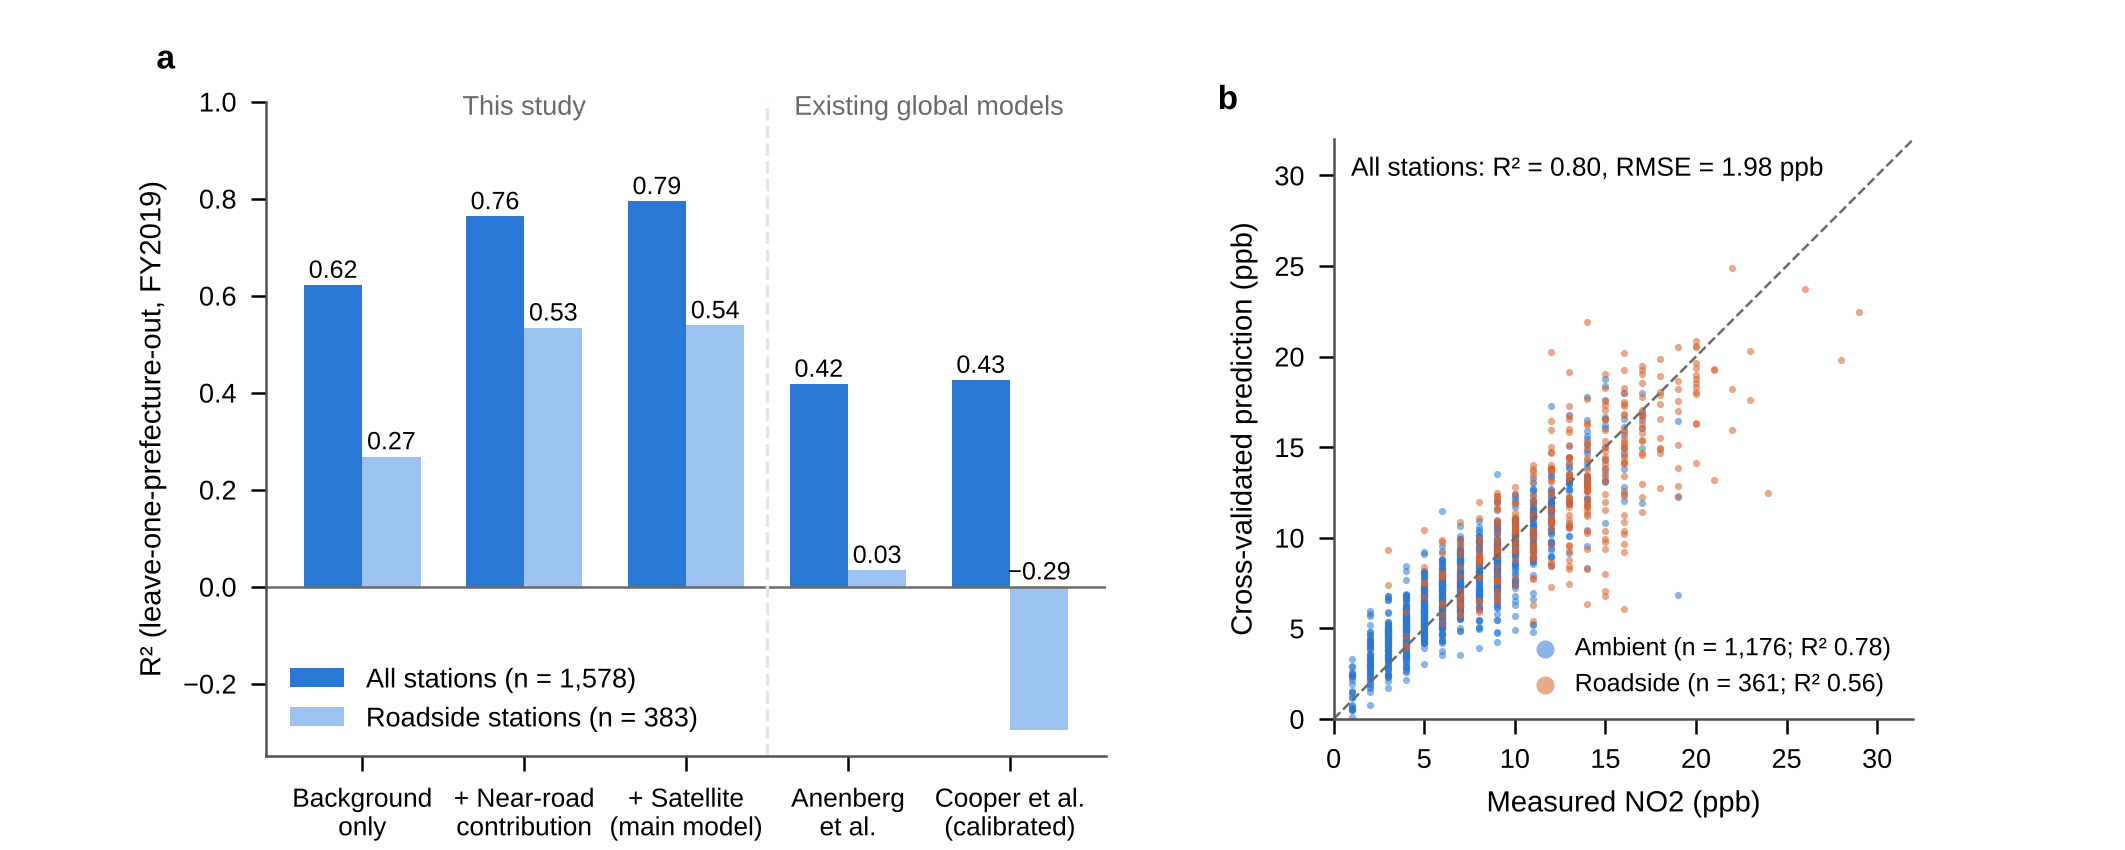
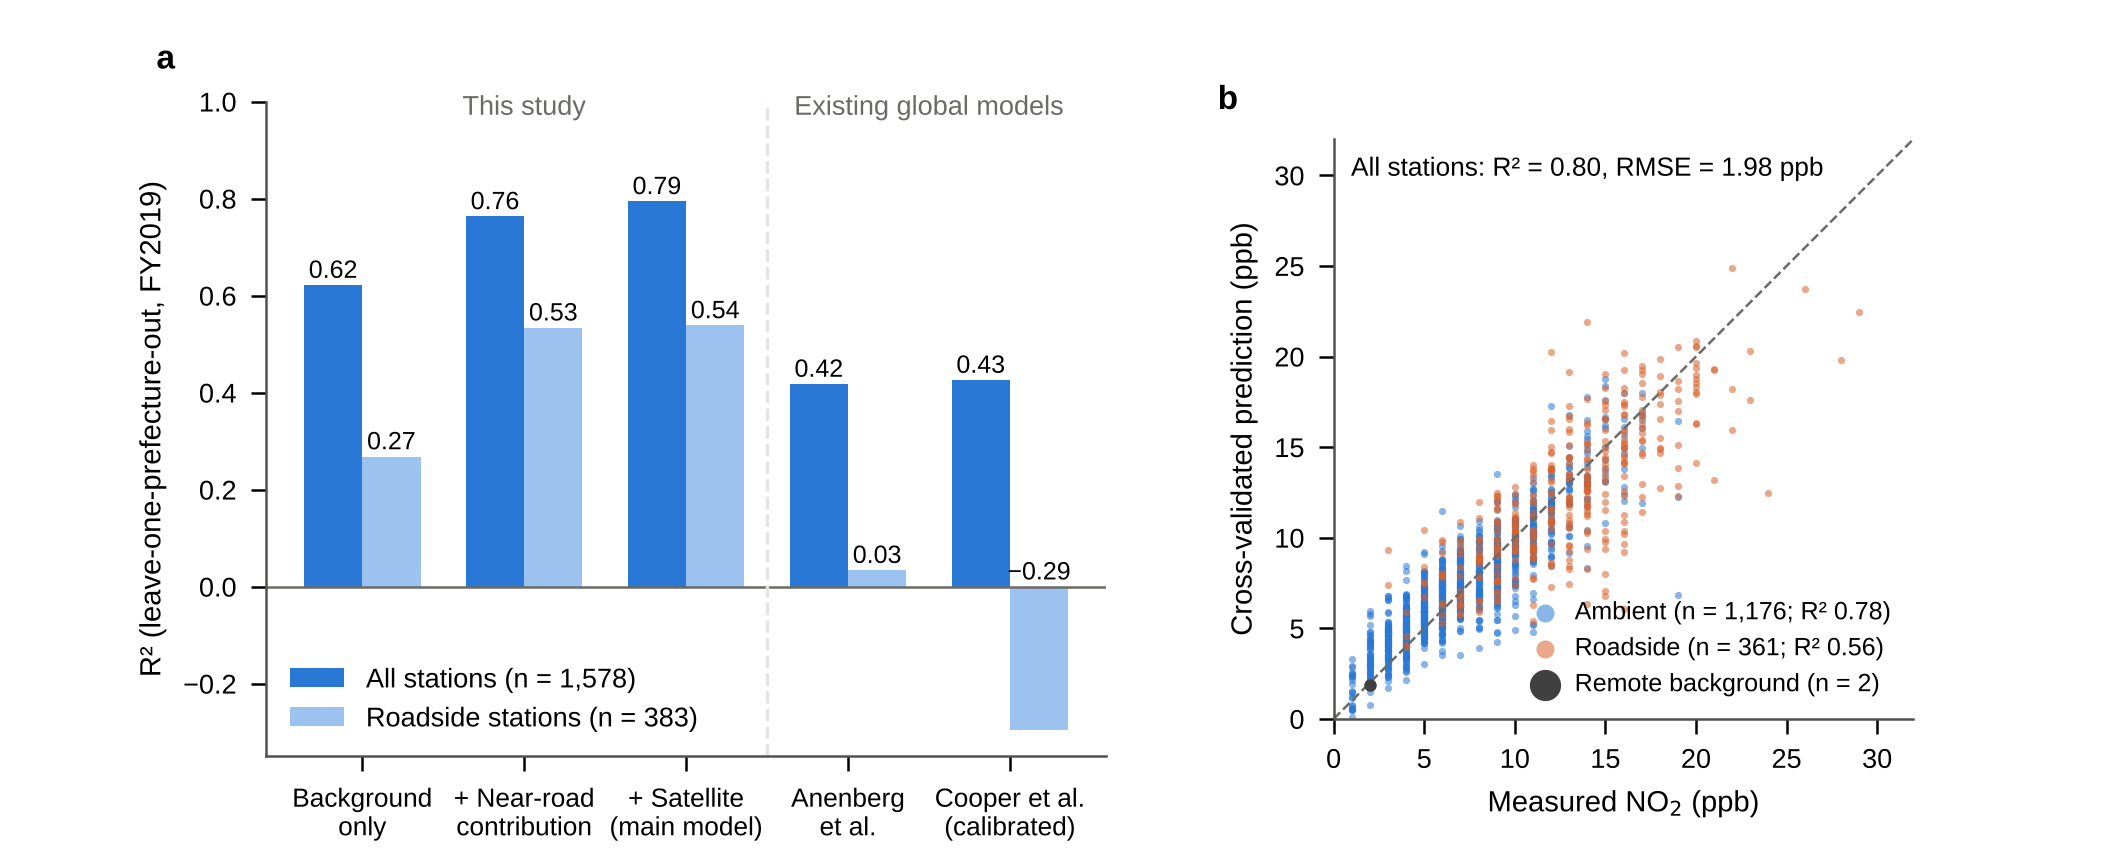
Add arithmetic-mean Lnight and summary tables; update figures (subscripts, remote background stations, panel order)

Changed region(s): [[0.7144, 0.7035, 0.9007, 0.8259], [0.6833, 0.9176, 0.8386, 0.9788]]

diff --git a/src/release_results.py b/src/release_results.py
@@ -1,0 +1,46 @@
+"""Adds the population-weighted arithmetic mean of Lnight to the small-area file and writes the English
+summary tables in data/results/ from the analysis outputs (unified_stats.py, measured_trends*.py,
+cutoff_sensitivity.py, popalloc_building.py, sens_kriging.py, sens_emission.py, compare_external.py).
+Usage: release_results.py ANALYSIS_DIR RELEASE_DATA_DIR
+  ANALYSIS_DIR holds results_unified/, rq34/, sensitivity/ and comparison_external/."""
+import pandas as pd, numpy as np, os, sys
+R, DATA = sys.argv[1].rstrip('/') + '/', sys.argv[2]
+os.chdir(DATA)
+d=pd.read_parquet('receptors_no2_noise_2015_2023.parquet',columns=['KEY_CODE','pop_w','Lnight_2021'])
+d['wL']=d.pop_w*d.Lnight_2021
+g=d.groupby('KEY_CODE')[['pop_w','wL']].sum(); am=(g.wL/g.pop_w).round(2)
+S=pd.read_csv('small_area_no2_noise_2015_2023.csv',dtype={'KEY_CODE':str})
+if 'Lnight_2021_mean' in S: S=S.drop(columns='Lnight_2021_mean')
+S.insert(S.columns.get_loc('Lnight_2021_energy_mean'),'Lnight_2021_mean',S.KEY_CODE.map(am))
+S.to_csv('small_area_no2_noise_2015_2023.csv',index=False)
+# results tables in English
+os.makedirs('results',exist_ok=True)
+t=pd.read_csv(R+'rq34/measured_trends_2015_2023.csv')
+t['series']=t.series.map({'夜間騒音（実測、dB差）':'nighttime_noise_dB','昼間騒音（実測、dB差）':'daytime_noise_dB','NO2 自排局（%変化）':'NO2_roadside_pct','NO2 一般局（%変化）':'NO2_ambient_pct'})
+t.rename(columns={'est':'change_from_2015','lo':'ci_low','hi':'ci_high'}).to_csv('results/measured_trends_2015_2023.csv',index=False)
+t=pd.read_csv(R+'rq34/robust/measured_trends_robustness.csv'); t.columns=['series','sample','change_2019','change_2023','ci_low_2023','ci_high_2023','sites','records']
+t['series']=t.series.map({'夜間騒音（dB差）':'nighttime_noise_dB','NO2 自排局（%）':'NO2_roadside_pct','NO2 一般局（%）':'NO2_ambient_pct'})
+t['sample']=t['sample'].map({'全地点（2回以上）':'measured in two or more years (main)','2015と2023の両年度に測定':'measured in 2015 and 2023','5年度以上測定':'measured in five or more years','全局（2回以上）':'measured in two or more years (main)','9年度すべて測定':'measured in all nine years'})
+t.to_csv('results/measured_trends_robustness.csv',index=False)
+t=pd.read_csv(R+'rq34/robust/sites_by_year.csv'); t.columns=['fiscal_year','noise_sites','noise_sites_also_previous_year','roadside_stations','ambient_stations']; t.to_csv('results/sites_by_year.csv',index=False)
+t=pd.read_csv(R+'sensitivity/noise_cutoff/cutoff_500m_comparison.csv'); t.columns=['indicator','cutoff_200m_main','cutoff_500m']
+t['indicator']=['Lnight>=55dB_pct','high_coexposure_pct','high_coexposure_10k_people','of_which_large_cities_pct','of_which_within_50m_pct','of_which_within_100m_pct','point_correlation','municipal_mean_correlation','within_municipality_correlation','noise_variance_between_municipalities_pct','NO2_variance_between_municipalities_pct','covariance_between_municipalities_pct','high_coexposure_by_small_area_means_pct','point_high_coexposure_missed_by_small_area_means_pct','small_area_means_only_pct_of_population']
+t.to_csv('results/sensitivity_cutoff_500m.csv',index=False)
+t=pd.read_csv(R+'sensitivity/noise_cutoff/monitoring_sites_200_vs_500.csv'); t.columns=['cutoff','records','bias_dB','sd_dB','r','rmse_dB','share_within_3dB']; t['cutoff']=['200 m','500 m']; t.to_csv('results/noise_validation_cutoffs.csv',index=False)
+t=pd.read_csv(R+'sensitivity/popalloc/popalloc_building_comparison_national.csv',dtype={'都府県':str})
+t.columns=['pref','placement','pop_10k','within50m_pct','within100m_pct','Lnight_mean','Lnight55_pct','NO2_mean_ppb','NO2_20ug_pct','high_coexposure_pct','of_which_within50m_pct','of_which_within100m_pct','of_which_large_city_wards_pct','r_noise_NO2']
+t['placement']=t.placement.map({'元の配置（小地域内に一様）':'uniform (main)','建物用地に配分':'building land'}); t['pref']=t.pref.replace({'全国計':'Japan'})
+t.to_csv('results/sensitivity_building_land_placement.csv',index=False)
+k=pd.read_csv(R+'sensitivity/sens_kriging.csv'); k['spec']=k.spec.str.split(' ').str[0]; k.to_csv('results/sensitivity_kriging.csv',index=False)
+e=pd.read_csv(R+'sensitivity/sens_emission_cv.csv'); e['case']=e.case.str.split(' ').str[0]; tot=pd.read_csv(R+'sensitivity/sens_emission_totals.csv'); tot['case']=tot.case.str.split(' ').str[0]
+e.merge(tot,on='case').to_csv('results/sensitivity_emissions.csv',index=False)
+c=pd.read_csv(R+'comparison_external/compare_external_stations.csv'); c['method']=c.method.str.replace('（年ずれ）','_yearlag'); c.to_csv('results/comparison_external_models.csv',index=False)
+
+U=R+'results_unified/'
+c=pd.read_csv(U+'correlation_by_level.csv'); c['単位']=['residential points','small areas','municipalities','secondary medical care areas','prefectures','residential points (deviations within municipalities)']; c.columns=['level','n','r']; c.to_csv('results/correlation_by_level.csv',index=False)
+t=pd.read_csv(U+'table1_by_municipality_type.csv'); t.columns=['municipality_type','pop_million','NO2_2022_ppb','NO2_change_2015_2023_pct','Lnight55_pct','NO2_20ug_pct','high_coexposure_pct','share_of_all_high_coexposure_pct','r_noise_NO2']
+t['municipality_type']=["Tokyo's 23 wards",'designated cities','cities >=300,000','cities 100,000-300,000','cities 50,000-100,000','cities <50,000','towns and villages','Japan']; t.to_csv('results/table1_by_municipality_type.csv',index=False)
+k=pd.read_csv(U+'key_numbers.csv'); k.columns=['indicator','value']
+en=['high_coexposure_pct','high_coexposure_10k_people','Lnight55_pct','NO2_20ug_pct','NO2_20ug_among_Lnight55_pct','NO2_2022_ppb','above_WHO10ug_2022_pct','above_WHO10ug_2015_pct','above_WHO10ug_2023_pct','NO2_2015_ppb','NO2_2023_ppb','near_road_change_2015_2023_pct','of_high_coexposure_Tokyo23_pct','of_high_coexposure_designated_cities_pct','of_high_coexposure_within50m_pct','of_high_coexposure_within100m_pct','nearest_road_prefectural_pct','nearest_road_national_highway_pct','nearest_road_motorway_pct','nearest_road_municipal_other_pct','high_coexposure_dist_lt20m_pct','high_coexposure_dist_20_50m_pct','high_coexposure_dist_50_100m_pct','high_coexposure_dist_100_200m_pct','high_coexposure_dist_ge200m_pct','high_coexposure_by_small_area_means_pct','noise_variance_between_municipalities_pct','NO2_variance_between_municipalities_pct','covariance_between_municipalities_pct','within_municipality_r','between_municipality_r','r_noise_near_road_NO2','r_noise_background_NO2']
+assert len(en)==len(k); k['indicator']=en; k.to_csv('results/key_numbers.csv',index=False)
+print(sorted(os.listdir('results')))

diff --git a/src/make_figures.py b/src/make_figures.py
@@ -75,9 +75,11 @@ s = b[b.fy == 2022]
 for k, col, lab in [('gen', BLUE, 'Ambient'), ('road', ORANGE, 'Roadside')]:
     t = s[s.kind == k]
     ax.scatter(t.NO2_obs, t.NO2_lopo, s=3, color=col, alpha=.55, lw=0, label=f'{lab} (n = {len(t):,}; R² {r2(t.NO2_obs, t.NO2_lopo):.2f})')
+t = s[~s.kind.isin(['gen', 'road'])]
+ax.scatter(t.NO2_obs, t.NO2_lopo, s=9, color='0.25', lw=0, zorder=5, label=f'Remote background (n = {len(t)})')
 lim = (0, 32)
 ax.plot(lim, lim, color=INK2, lw=.6, ls='--'); ax.set_xlim(lim); ax.set_ylim(lim); ax.set_aspect('equal')
-ax.set_xlabel('Measured NO2 (ppb)'); ax.set_ylabel('Cross-validated prediction (ppb)')
+ax.set_xlabel('Measured NO$_2$ (ppb)'); ax.set_ylabel('Cross-validated prediction (ppb)')
 ax.text(.03, .97, f'All stations: R² = {r2(s.NO2_obs, s.NO2_lopo):.2f}, RMSE = {np.sqrt(((s.NO2_obs - s.NO2_lopo) ** 2).mean()):.2f} ppb',
         transform=ax.transAxes, va='top', fontsize=6.3)
 ax.legend(loc='lower right', frameon=False, markerscale=2.5, handletextpad=.2, fontsize=6)
@@ -97,12 +99,12 @@ for ser, col, lab in [('NO2 自排局（%変化）', ORANGE, 'Roadside stations 
     d = t[t.series == ser]
     axs[0].fill_between(d.fy, d.lo, d.hi, color=col, alpha=.25, lw=0)
     axs[0].plot(d.fy, d.est, color=col, marker='o', ms=2.5, lw=1.2, label=lab)
-axs[0].set_ylabel('Change in NO2 from FY2015 (%)'); axs[0].set_ylim(-42, 4)
+axs[0].set_ylabel('Change in NO$_2$ from FY2015 (%)'); axs[0].set_ylim(-42, 4)
 axs[0].legend(loc='lower left', frameon=False)
 d = t[t.series == '夜間騒音（実測、dB差）']
 axs[1].fill_between(d.fy, d.lo, d.hi, color='#5b4bb7', alpha=.22, lw=0)
 axs[1].plot(d.fy, d.est, color='#5b4bb7', marker='o', ms=2.5, lw=1.2, label='Nighttime noise (n = 7,302 sites)')
-axs[1].set_ylabel('Change in Lnight from FY2015 (dB)'); axs[1].set_ylim(-1.6, 0.5)
+axs[1].set_ylabel('Change in $L_\\mathrm{night}$ from FY2015 (dB)'); axs[1].set_ylim(-1.6, 0.5)
 axs[1].legend(loc='lower left', frameon=False)
 for ax in axs:
     ax.text(2020.5, .97, 'COVID-19', ha='center', va='top', fontsize=6.3, color=INK2, transform=ax.get_xaxis_transform())
@@ -197,10 +199,10 @@ for i, v in enumerate(lv.r):
 wi = CL.iloc[5].r
 ax.axhline(wi, color=INK2, lw=.7, ls='--'); ax.text(4.35, wi + .015, f'Within\nmunicipalities ({wi:.2f})', ha='right', va='bottom', fontsize=5.5, color=INK2)
 ax.set_xticks(range(5)); ax.set_xticklabels(labs, fontsize=6); ax.set_ylim(0, 1); ax.set_xlim(-.4, 4.4)
-ax.set_ylabel('Correlation of nighttime noise and NO2')
+ax.set_ylabel('Correlation of nighttime noise and NO$_2$')
 panel(ax, 'a', -0.35, 1.06)
 ax = fig.add_subplot(gs[0, 1:])
-rows = [('NO2', 91.93), ('Nighttime noise,\ncutoff 200 m (main)', float(CO.loc['騒音分散の市区町村間 %', '200 m（主解析）'])),
+rows = [('NO$_2$', 91.93), ('Nighttime noise,\ncutoff 200 m (main)', float(CO.loc['騒音分散の市区町村間 %', '200 m（主解析）'])),
         ('Nighttime noise,\ncutoff 500 m', float(CO.loc['騒音分散の市区町村間 %', '500 m']))]
 y = np.arange(len(rows))[::-1]
 for yy, (lab, bt) in zip(y, rows):
@@ -211,11 +213,11 @@ ax.set_yticks(y); ax.set_yticklabels([l for l, _ in rows]); ax.set_xlim(0, 100)
 ax.set_xlabel('Share of population-weighted variance (%)')
 h = [plt.Rectangle((0, 0), 1, 1, color=BLUE), plt.Rectangle((0, 0), 1, 1, color=LBLUE)]
 ax.legend(h, ['Between municipalities', 'Within municipalities'], loc='upper center', bbox_to_anchor=(.5, 1.25), ncol=2, frameon=False)
-panel(ax, 'c', -0.26, 1.06)
+panel(ax, 'b', -0.26, 1.06)
 box = (139.68, 35.64, 139.80, 35.72)
 Z = R[(R.lon > box[0]) & (R.lon < box[2]) & (R.lat > box[1]) & (R.lat < box[3])]
-for j, (col, lab, cm, vmin, vmax) in enumerate([('Lnight_2021', 'Nighttime noise, Lnight (dB)', 'magma_r', 40, 70),
-                                                 ('ug', 'NO2 (µg m$^{-3}$)', 'viridis_r', 15, 35)]):
+for j, (col, lab, cm, vmin, vmax) in enumerate([('Lnight_2021', 'Nighttime noise, $L_\\mathrm{night}$ (dB)', 'magma_r', 40, 70),
+                                                 ('ug', 'NO$_2$ (µg m$^{-3}$)', 'viridis_r', 15, 35)]):
     ax = fig.add_subplot(gs[1, j])
     sc = ax.scatter(Z.lon, Z.lat, c=Z[col], s=.4, lw=0, cmap=cm, vmin=vmin, vmax=vmax, rasterized=True)
     ax.set_xlim(box[0], box[2]); ax.set_ylim(box[1], box[3]); ax.set_aspect(1 / np.cos(np.radians(35.68)))
@@ -224,14 +226,14 @@ for j, (col, lab, cm, vmin, vmax) in enumerate([('Lnight_2021', 'Nighttime noise
         s.set_visible(True); s.set_color(INK2); s.set_linewidth(.5)
     cb = fig.colorbar(sc, ax=ax, orientation='horizontal', fraction=.06, pad=.04); cb.set_label(lab, fontsize=6.3); cb.ax.tick_params(labelsize=6)
     if j == 0:
-        panel(ax, 'b', -0.05, 1.03)
+        panel(ax, 'c', -0.05, 1.03)
         km = 1 / (111.32 * np.cos(np.radians(35.68)))
         ax.plot([box[0] + .005, box[0] + .005 + 2 * km], [box[1] + .004] * 2, color=INK, lw=1.2)
         ax.text(box[0] + .005 + km, box[1] + .007, '2 km', ha='center', fontsize=6, bbox=dict(fc='white', ec='none', pad=.5))
 ax = fig.add_subplot(gs[1, 2])
 zz = Z.sample(min(len(Z), 20000), random_state=1)
 ax.scatter(zz.ug, zz.Lnight_2021, s=.6, lw=0, alpha=.35, color=INK2, rasterized=True)
-ax.set_xlabel('NO2 (µg m$^{-3}$)'); ax.set_ylabel('Lnight (dB)'); ax.set_xlim(15, 35); ax.set_ylim(38, 72)
+ax.set_xlabel('NO$_2$ (µg m$^{-3}$)'); ax.set_ylabel('$L_\\mathrm{night}$ (dB)'); ax.set_xlim(15, 35); ax.set_ylim(38, 72)
 rr = np.corrcoef(Z.ug, Z.Lnight_2021)[0, 1]
 ax.text(.03, .97, f'Points in the map area\n(n = {len(Z):,}; r = {rr:.2f})', transform=ax.transAxes, va='top', fontsize=6)
 save(fig, 'fig4')

diff --git a/data_dictionary/README.md b/data_dictionary/README.md
@@ -1,3 +1,11 @@
+# NO2 and nighttime road traffic noise at residential locations in Japan, FY2015–2023
+
+Estimates for the paper "Diverging trends in nitrogen dioxide and nighttime road traffic noise in Japanese cities" (Daisuke Matsushita, Osaka Metropolitan University, ORCID 0000-0002-6765-9366). Code: https://github.com/m138/japan-traffic-no2 ([code DOI]).
+
+Annual mean NO2 (ppb) at 12,298,351 residential locations covering the 2020 population of Japan, for fiscal years 2015–2023, with the part explained by nearby census roads and the nighttime road traffic noise (Lnight, 2021 traffic) of the companion model japan-night-road-noise. Leave-one-prefecture-out R² against monitoring stations: 0.78–0.81 (all), 0.46–0.60 (roadside).
+
+Files: see the data dictionary below. License: CC BY 4.0. Please cite the paper and this dataset, and credit the data sources (MLIT Road Traffic Census; e-Stat 2020 census boundaries; NIES air quality and noise monitoring data of the Ministry of the Environment; Cooper et al. 2022 TROPOMI surface NO2).
+
 # Data dictionary
 
 Units: NO2 in ppb (multiply by 1.88 for µg/m³); noise in dB (A-weighted). Fiscal year (FY) YYYY runs from April YYYY to March YYYY+1. All means are population-weighted with the 2020 census population.
@@ -9,7 +17,8 @@ Units: NO2 in ppb (multiply by 1.88 for µg/m³); noise in dB (A-weighted). Fisc
 | pop2020 | 2020 census population of the small area |
 | NO2_YYYY | Mean annual NO2 at the residential locations of the area, FY YYYY (2015–2023) |
 | road_YYYY | Part of NO2_YYYY explained by Road Traffic Census roads within 1 km |
-| Lnight_2021_energy_mean | Energy mean of nighttime (22:00–06:00) road traffic noise Lnight, 2021 traffic (japan-night-road-noise v4; 40 dB floor) |
+| Lnight_2021_mean | Population-weighted arithmetic mean (dB) of nighttime (22:00–06:00) road traffic noise Lnight, 2021 traffic (japan-night-road-noise v4; 40 dB floor). Used for all area-level analyses in the paper |
+| Lnight_2021_energy_mean | Population-weighted energy mean of the same Lnight (for reference) |
 | share_Lnight55 | Share of residents with Lnight ≥ 55 dB |
 | share_double_2022 | Share of residents with Lnight ≥ 55 dB and NO2 (FY2022) ≥ 20 µg/m³ |
 
@@ -49,6 +58,9 @@ Units: NO2 in ppb (multiply by 1.88 for µg/m³); noise in dB (A-weighted). Fisc
 | speed_small, speed_large, speed_source | Travel speed (km/h) used for emission factors and its source (12h = 12-hour daytime mean, offpeak, peak, limit = posted limit) |
 | length_km | Geodesic length of the section |
 | nox_g_km_day, nox_t_year | NOx emissions with emission factors of the census year |
+
+## results/
+Summary tables behind the paper (English column names): key_numbers.csv, table1_by_municipality_type.csv, correlation_by_level.csv, measured_trends_2015_2023.csv and measured_trends_robustness.csv (site fixed-effect trends of measured NO2 and noise), sites_by_year.csv, sensitivity_cutoff_500m.csv, sensitivity_building_land_placement.csv, noise_validation_cutoffs.csv, sensitivity_kriging.csv, sensitivity_emissions.csv, comparison_external_models.csv.
 
 ## Other files
 cv_lopo_2015_2023.csv (cross-validation by year and station type), coef_2015_2023.csv (model coefficients and kriging kernels), national_2015_2023.csv (national means and shares above WHO levels).

diff --git a/README.md b/README.md
@@ -39,7 +39,7 @@ Leave-one-prefecture-out cross-validation against about 1,600 stations per year:
 - An estimated 8.9% of residents (11.2 million) had high co-exposure; 70% of them lived in Tokyo's 23 wards and the designated cities, which hold 30% of the population, and 83% within 100 m of a main road (figures/fig3.png).
 - NO2 varies mainly between municipalities (92% of the population-weighted variance) and nighttime noise mainly within them (11% between municipalities) (figures/fig4.png).
 
-Figures 1–4 of the paper are in `figures/` and are made by `src/make_figures.py`. The interactive map (`docs/`) shows NO2 for each fiscal year, its change, the near-road contribution, nighttime noise and high co-exposure by municipality; `src/make_webmap_data.py` makes its data.
+The summary tables behind the numbers in the paper (key numbers, Table 1, correlations by spatial unit, measured trends, sensitivity analyses) are in `results/` of the Zenodo deposit and are made by `src/release_results.py`. Figures 1–4 of the paper are in `figures/` and are made by `src/make_figures.py`. The interactive map (`docs/`) shows NO2 for each fiscal year, its change, the near-road contribution, nighttime noise and high co-exposure by municipality; `src/make_webmap_data.py` makes its data.
 
 ## What the code does
 1. Computes NOx emissions for every section of the 2015 and 2021 Road Traffic Census from traffic counts, travel speed and the speed-dependent emission factors of NILIM Technical Note 671 (by calendar year).

diff --git a/PIPELINE.md b/PIPELINE.md
@@ -80,6 +80,7 @@ python src/popalloc_compare.py W W2 RELEASE_PARQUET OUT 01 02 ... 47
 # Cutoff distance of 500 m for noise sources (Extended Data Table 3)
 NOISE_CUT=500 python src/noise_at_receptors.py W path/to/japan-night-road-noise/src W/nz 01 02 ... 47
 python src/cutoff_sensitivity.py W RELEASE_PARQUET NEAREST_ROAD_PARQUET OUT
+python src/release_results.py WORK OUT/data                # arithmetic-mean Lnight column and summary tables in data/results/
 python src/make_figures.py WORK BOUNDARIES.gpkg figures/   # Figures 1-4
 python src/make_webmap_data.py RELEASE_PARQUET path/to/japan-night-road-noise/docs/muni.geojson docs/muni.geojson
 ```
